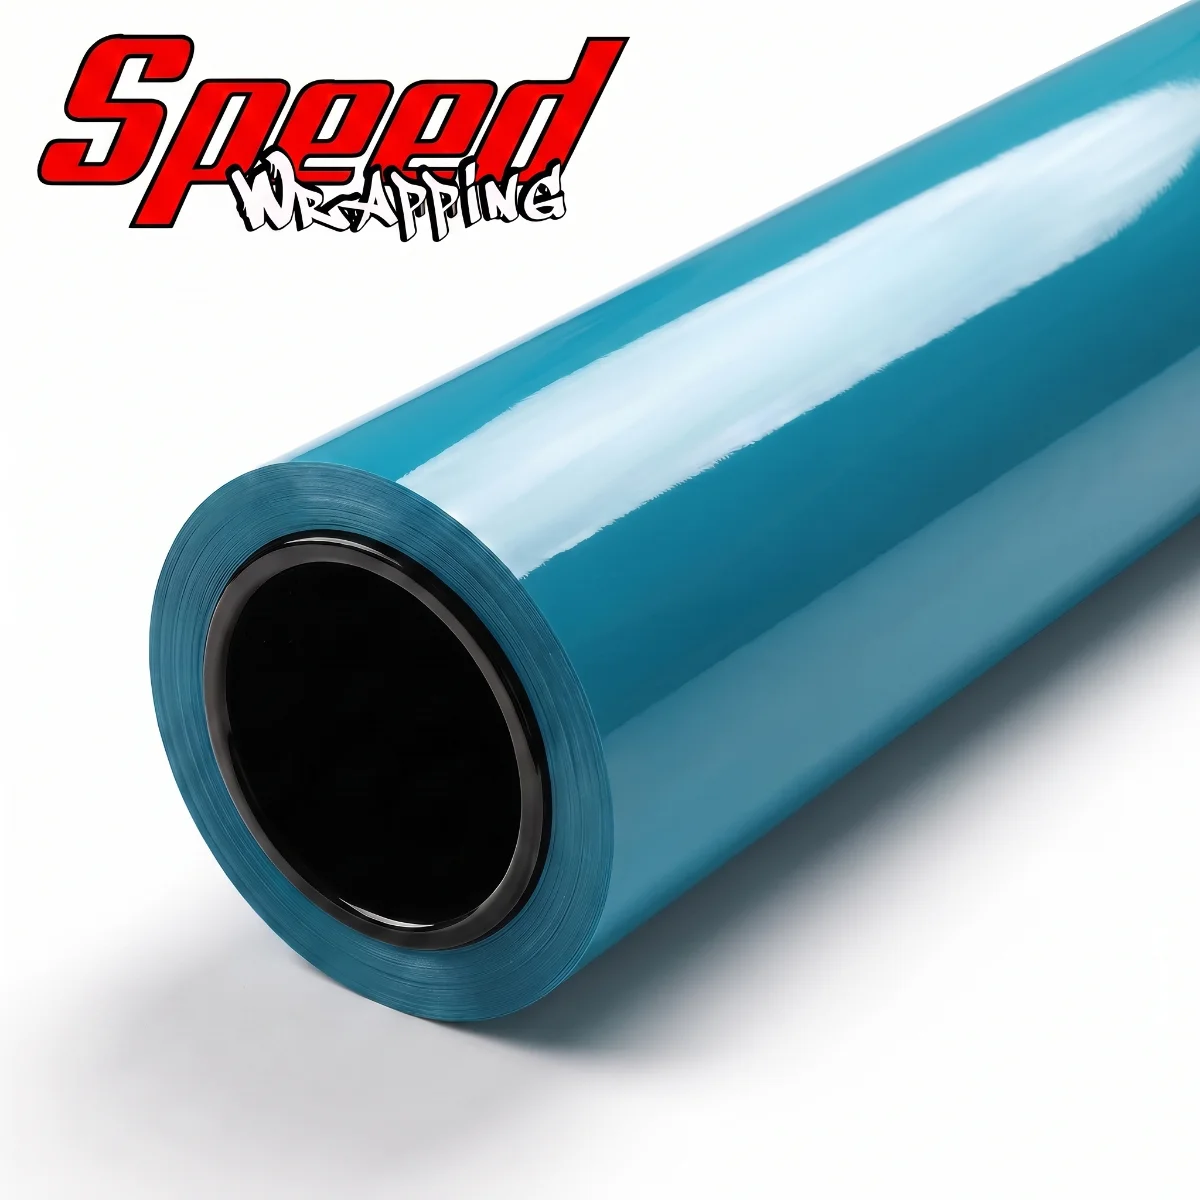
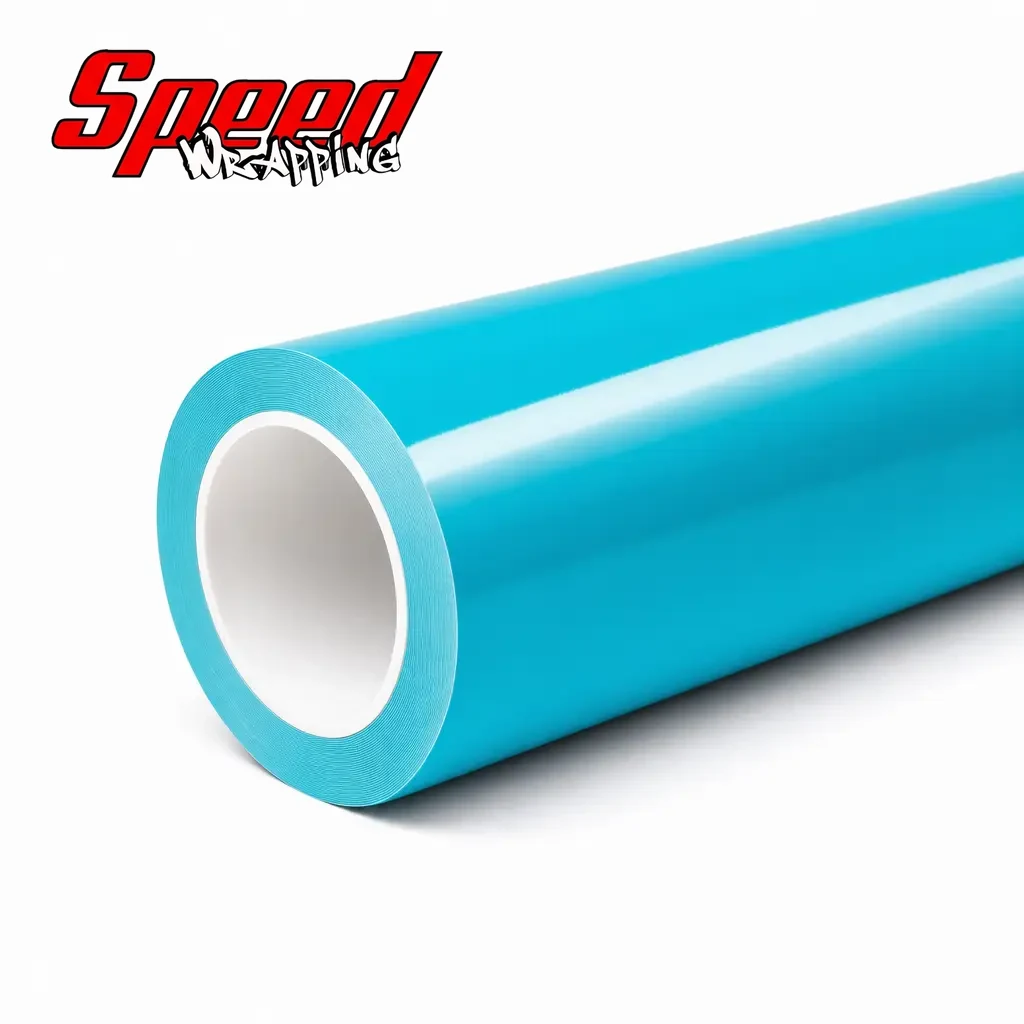
feat(esg-011): Porsche 911 GT3 Touring + capa super gloss com referencia ESG-034/033 (#05A9CD) Miami Blue

diff --git a/docs/STATUS_CORES_SPEED.md b/docs/STATUS_CORES_SPEED.md
@@ -44,10 +44,10 @@ pasta · `✅ ` = fotos e capa 100% no site. Ex.: `✅ EDG-020 LIQUID METAL RUBY
 | EGF-017 | SHADOW BLACK | ✅ 30/09 | ✅ 01/10 — camuflagem preta: manchas preto brilhante × cinza-chumbo acetinado; textura `d0cfb72b` | ✅ 01/10 — **B** aprovado (`5165d1d4`) | ✅ 01/10 — aprovadas: closes + macro brilho × acetinado + capa camuflada | ✅ 01/10 — commit `3eb9121` (deploy demorou; registro no banco na 2ª rodada), 5 mídias, conferido no ar; pasta ✅ |
 | EGF-018 | FORGED CARBON | ✅ 30/09 | ⚠ 01/10 — **leitura errada na 1ª publicação**: tratei como brilhante; o João corrigiu: é **fosco com flake metálico** nos estilhaços (base preta aveludada). Novo recorte `3f26a272` | ✅ 01/10 — refeito fosco; **B** aprovado (`ee02ef0e`) | ✅ 01/10 — refeitas no acabamento certo (fosco + flake metálico): closes + capa rolo fosco; sem correção | ✅ 01/10 — 1ª publicação `2ff4491` (brilhante, errada) substituída pelo commit `38bb6c7`; 5 arquivos conferidos por conteúdo no ar; pasta ✅ |
 | ESG-004 | SUPER GLOSS FERRARI RED PET | ✅ 01/10 | ✅ 01/10 — à mão: H 356–1 · S 84–97 · V ~88 → vermelho vivo levemente alaranjado **`#E31E14`** (cor no teto: sem correção) | ✅ 01/10 — **B** aprovado (`0e479703`) | ✅ 01/10 — aprovadas (H 359–5 · S 92–99; capa V 89); sem correção | ✅ 01/10 — commit `70cfffc`, 5 mídias (capa antiga substituída), conferido no ar; pasta ✅ |
-| ESG-011 | SUPER GLOSS MIAMI BLUE PET | ✅ 01/10 | ✅ 01/10 — à mão: H 188–194 · S 87–99 · V 80–86 (asfalto neutro) → **`#05A9CD`** (cor no teto) | ⏳ 01/10 — rascunho (Porsche 911 GT3 Touring, vila branca andaluza) | — | — |
-| ESG-016 | SUPER GLOSS SUNFLOWER YELLOW PET | ✅ 01/10 | ✅ 01/10 — à mão (só fotos sem a ESG-017 atrás): H 40–43 · S 97–99 · V 87–96 → **`#F2A705`** (cor no teto) | ⏳ 01/10 — rascunho (Chevrolet Corvette C8, passo das Dolomitas) | — | — |
-| ESG-025 | SUPER GLOSS LAVENDER PET | ✅ 01/10 | ✅ 01/10 — à mão: H 250–257 · S 38–41 · V 89–92 → **`#A996EA`** (lilás pastel; swatch) | ⏳ 01/10 — rascunho (Mercedes-AMG SL 63, estrada de ciprestes na Toscana) | — | — |
-| EMA-007 | MATT ARMY GREEN | ✅ 01/10 | ✅ 01/10 — à mão (balanço de branco pelo asfalto): H 104–108 · S 25–32 · V 43–48 → **`#5A7351`**; **fosco** (1ª EMA) | ⏳ 01/10 — rascunho (Mercedes-AMG G 63, pista de aeródromo de concreto) | — | — |
+| ESG-011 | SUPER GLOSS MIAMI BLUE PET | ✅ 01/10 | ✅ 01/10 — à mão: H 188–194 · S 87–99 · V 80–86 (asfalto neutro) → **`#05A9CD`** (cor no teto) | ✅ 01/10 — **B** aprovado (`d575dc96`) | ⏳ 01/10 — prévia pronta, sem correção (cor no teto; capa H 189 · S 97) | — |
+| ESG-016 | SUPER GLOSS SUNFLOWER YELLOW PET | ✅ 01/10 | ✅ 01/10 — à mão (só fotos sem a ESG-017 atrás): H 40–43 · S 97–99 · V 87–96 → **`#F2A705`** (cor no teto) | ✅ 01/10 — **B** aprovado (`7d4df5e3`; eu tinha recomendado A) | ⏳ 01/10 — prévia pronta, sem correção (cor no teto; capa H 41 · S 99) | — |
+| ESG-025 | SUPER GLOSS LAVENDER PET | ✅ 01/10 | ✅ 01/10 — à mão: H 250–257 · S 38–41 · V 89–92 → **`#A996EA`** (lilás pastel; swatch) | ✅ 01/10 — **B** aprovado (`afb651df`; eu tinha recomendado A) | ⏳ 01/10 — prévia pronta, corrigida contra `#A996EA` (família `violeta`, `val_max` 0,95; tudo em H 253 · S 36, capa V 92) | — |
+| EMA-007 | MATT ARMY GREEN | ✅ 01/10 | ✅ 01/10 — à mão (balanço de branco pelo asfalto): H 104–108 · S 25–32 · V 43–48 → **`#5A7351`**; **fosco** (1ª EMA) | ✅ 01/10 — **B** aprovado (`1497a65c`, corrigido) | ⏳ 01/10 — prévia pronta, corrigida contra `#5A7351` com a família nova **`militar` (65–130)** + `sat_min` 0,06: com o padrão 0,18 a porta saiu manchada; com `musgo` o concreto e a torre ficaram verdes. Tudo em H 104 · S 30 | — |
 
 **Cadastradas no NZERP em 01/10** (eram as "fora do NZERP" com amostra no Drive): nome lido no rótulo do
 cartão; fiscal, custo, preço da Engenharia e medidas copiados do irmão de linha; criadas no Tiny pela

diff --git a/docs/FOTOS_DE_COR_AUTOMOTIVA.md b/docs/FOTOS_DE_COR_AUTOMOTIVA.md
@@ -127,6 +127,10 @@ confiável:
 | EGF-017 Shadow Black | camuflagem preto brilhante × cinza-grafite acetinado | — | não é forjado: o padrão aparece pela diferença de brilho |
 | EGF-018 Forged Carbon | estilhaços angulosos cinza/grafite sobre preto | — | forjado em estilhaços, não em retângulos |
 | ESG-004 Super Gloss Ferrari Red | H 356–1 · S 84–97 · V ~88 (à mão) → `#E31E14` | — | cor no teto: sem correção |
+| ESG-011 Super Gloss Miami Blue | H 188–194 · S 87–99 · V 80–86 → `#05A9CD` | — | cor no teto: sem correção |
+| ESG-016 Super Gloss Sunflower Yellow | H 40–43 · S 97–99 · V 87–96 → `#F2A705` | — | duas fotos tinham a ESG-017 atrás do cartão: medir só as fotos com o cartão sozinho |
+| ESG-025 Super Gloss Lavender | H 250–257 · S 38–41 · V 89–92 → `#A996EA` (swatch) | — | asfalto neutro; corrigida com `violeta` + `val_max` 0,95 |
+| EMA-007 Matt Army Green | H 104–108 · S 25–32 · V 43–48 (balanço de branco) → `#5A7351` | — | primeira EMA (fosco); gerador entrega oliva acinzentado H ~84 |
 | EDG-021 / EMT-025 (azuis, 30/09) | — | 41 / 26 | **não confiável**: reflexo do céu no cartão segurado na mão — refotografar deitado, na sombra |
 | **ESG-030 Gem Red** | H333 S68 V76 | **7,7** | **não confiável** |
 
@@ -591,6 +595,21 @@ contra o sol os estilhaços refletem forte e parecem verniz. Regra: em carbono, 
 o recorte de textura tem que mostrar a base fosca (EGF-018 v2: `3f26a272`). Na dúvida, perguntar
 ao João o acabamento antes do piloto.
 
+### Verde-militar fosco: correção que mancha a porta ou tinge o cenário (EMA-007, 01/10)
+
+O gerador entregou o Army Green como oliva acinzentado (H 84 · S 18; cartão H 105 · S 29). Corrigindo
+com o `sat_min` padrão (0,18), as partes mais cinzentas da lataria (S 10–18) ficaram fora da máscara e
+o **perfil saiu com manchas verdes na porta**. Baixando `sat_min` para 0,06 com a família `musgo`
+(40–130), o **concreto amarelado e a torre ficaram verdes**. O que fechou: família nova `militar`
+(65–130) — fora do concreto (H 40–60) e do cinza-azulado do hangar — com `sat_min`/`sat_min_cena`
+0,06. Regra: em cor de saturação baixa, conferir na prévia **a lataria inteira (manchas)** e **o
+cenário (vazamento)**, e estreitar a faixa de matiz antes de mexer no limite de saturação.
+
+**Fosco de verdade (EMA):** "true MATTE: flat dead-matte like a military vehicle or matte rubberised
+paint; NO clear coat, NO gloss, NO reflections, NO satin sheen band; light falls off softly like on
+suede; the black trim and glass stay glossy". Saiu certo de primeira; capa só com a ESG-034
+(geometria) e "NO specular band, only a soft diffuse lightening".
+
 ### Família de correção que cruza o vermelho pinta a lanterna (EMT-024, 01/10)
 
 A `malva` (300–5) cruza 0 grau. Num carro rosa, ela corrige o rosa **e** puxa a lanterna
@@ -760,6 +779,10 @@ marca d'água, sem adesivo de patrocínio.
 | EGF-017 Shadow Black | BMW M4 (G82) branco — closes | rua de cidade, concreto claro (desfocada) |
 | EGF-018 Forged Carbon | McLaren 720S laranja papaya — closes | paddock de autódromo (desfocado) |
 | ESG-004 Super Gloss Ferrari Red | Ferrari F8 Tributo (rodas pretas em Y, pinça vermelha) | estrada na praia de areia preta da Islândia, rochas de basalto |
+| ESG-011 Super Gloss Miami Blue | Porsche 911 GT3 Touring (rodas prata usinadas) | rua de vila branca andaluza, telhado de terracota |
+| ESG-016 Super Gloss Sunflower Yellow | Chevrolet Corvette C8 (rodas grafite) | estrada de montanha nas Dolomitas |
+| ESG-025 Super Gloss Lavender | Mercedes-AMG SL 63 (capota preta, pinça cobre) | estrada de ciprestes na Toscana, campos dourados |
+| EMA-007 Matt Army Green | Mercedes-AMG G 63 (rodas pretas foscas) | pista de aeródromo de concreto, hangar e torre |
 
 Quando o fabricante já escolheu um carro na brochure, é uma boa escolha — foi o
 caso do Golf na Capri Bronze e do M4 na Bavarian Blue. E quando a cor reproduz

diff --git a/docs/CAPAS_SPEED_WRAPPING.md b/docs/CAPAS_SPEED_WRAPPING.md
@@ -324,6 +324,10 @@ conferir sempre pelo arquivo no ar antes de mexer em qualquer coisa.
 | EGF-017 Shadow Black | padrão (camuflagem brilho × acetinado) | gloss/satin | ESG-034 + recorte do cartão (`d0cfb72b`) + "soft white highlight that shines on the glossy blotches and stays muted on the satin ones"; capa 2 |
 | EGF-018 Forged Carbon | padrão (estilhaços cinza sobre preto) | gloss forjado | ESG-034 + recorte do cartão (`5980816d`); capa 2 (estilhaços mais nítidos) |
 | ESG-004 Super Gloss Ferrari Red | `#E31E14` · H 3 · S 91 · V 89 | super gloss sólido | ESG-034 + ESG-033 + "SOLID colour, exactly like image 2"; capa 2 (H 5 · S 92 · V 89); sem correção (cor no teto) |
+| ESG-011 Super Gloss Miami Blue | `#05A9CD` · H 191 · S 97 · V 81 | super gloss sólido | ESG-034 + ESG-033 + "SOLID colour, exactly like image 2"; capa 2 (H 189 · S 97 · V 80); sem correção |
+| ESG-016 Super Gloss Sunflower Yellow | `#F2A705` · H 41 · S 98 · V 95 | super gloss sólido | idem; capa 1 (H 41 · S 99 · V 93); sem correção |
+| ESG-025 Super Gloss Lavender | `#A996EA` · H 253 · S 36 · V 92 | super gloss sólido | idem; capa 2 → `--corrigir` fecha em H 253,6 · S 36,1 · V 91,8 (família `violeta`, `val_max` 0,95) |
+| EMA-007 Matt Army Green | `#5A7351` · H 105 · S 29 · V 45 | **matt** (fosco) | **primeira capa fosca lisa**: só ESG-034 (geometria) + "TRUE MATTE… NO specular band"; capa 2 → fecha em H 104,2 · S 29,6 · V 45,1 (família nova `militar`) |
 
 **A ESG-034 é a referência de geometria da linha** (job `a811cd95…`), e a
 **ESG-033 é a referência de acabamento** (job `d1170724…`). Passar as duas como
